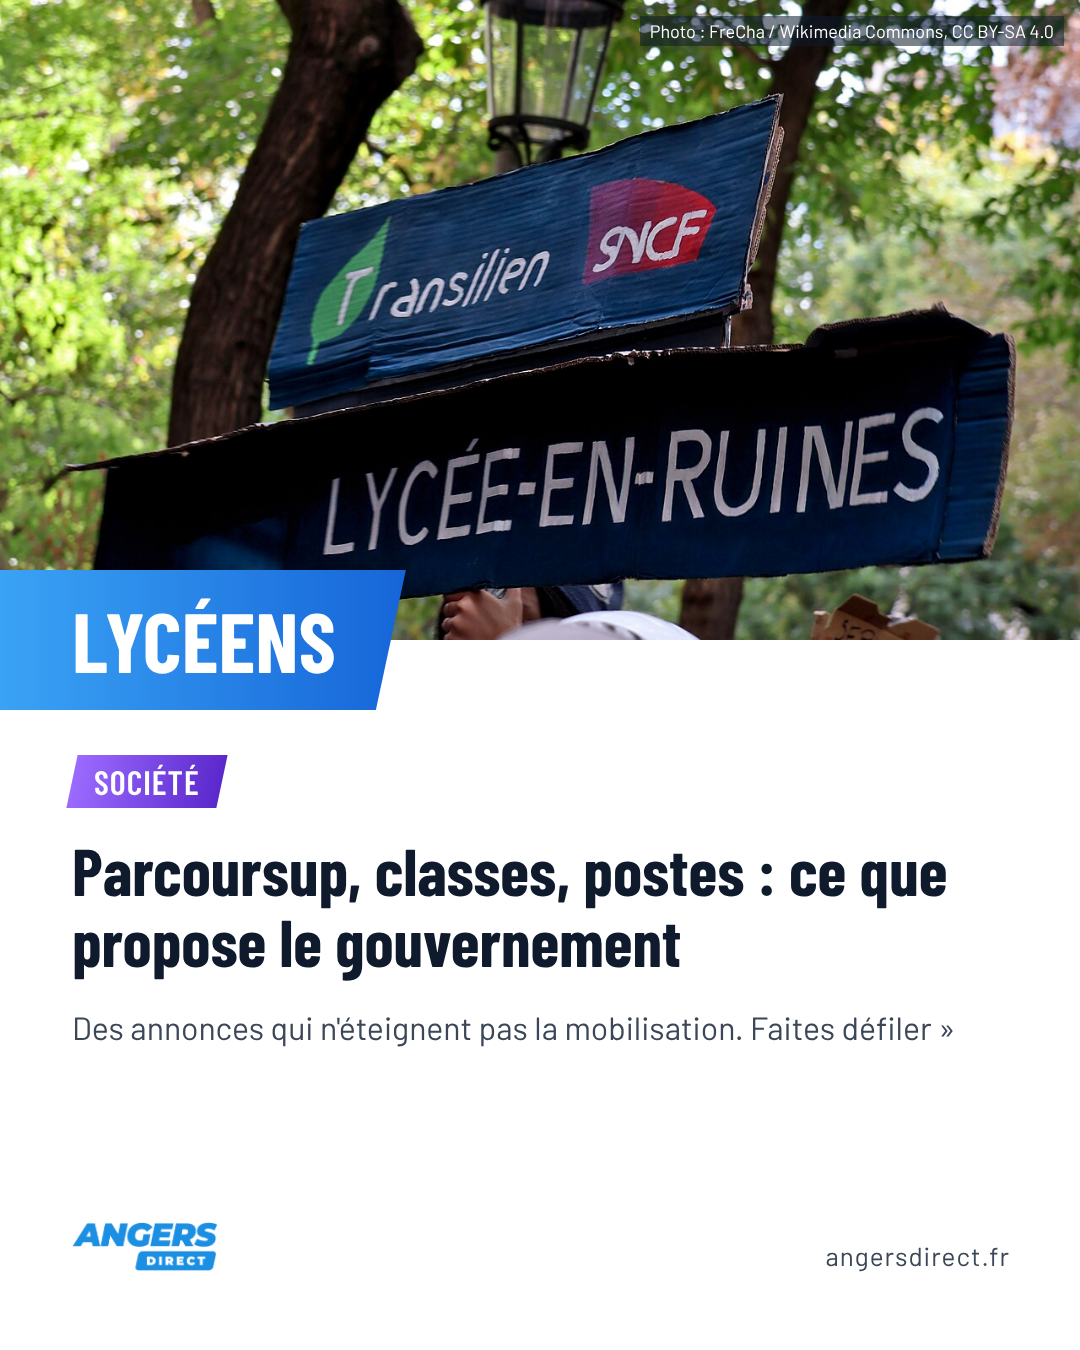
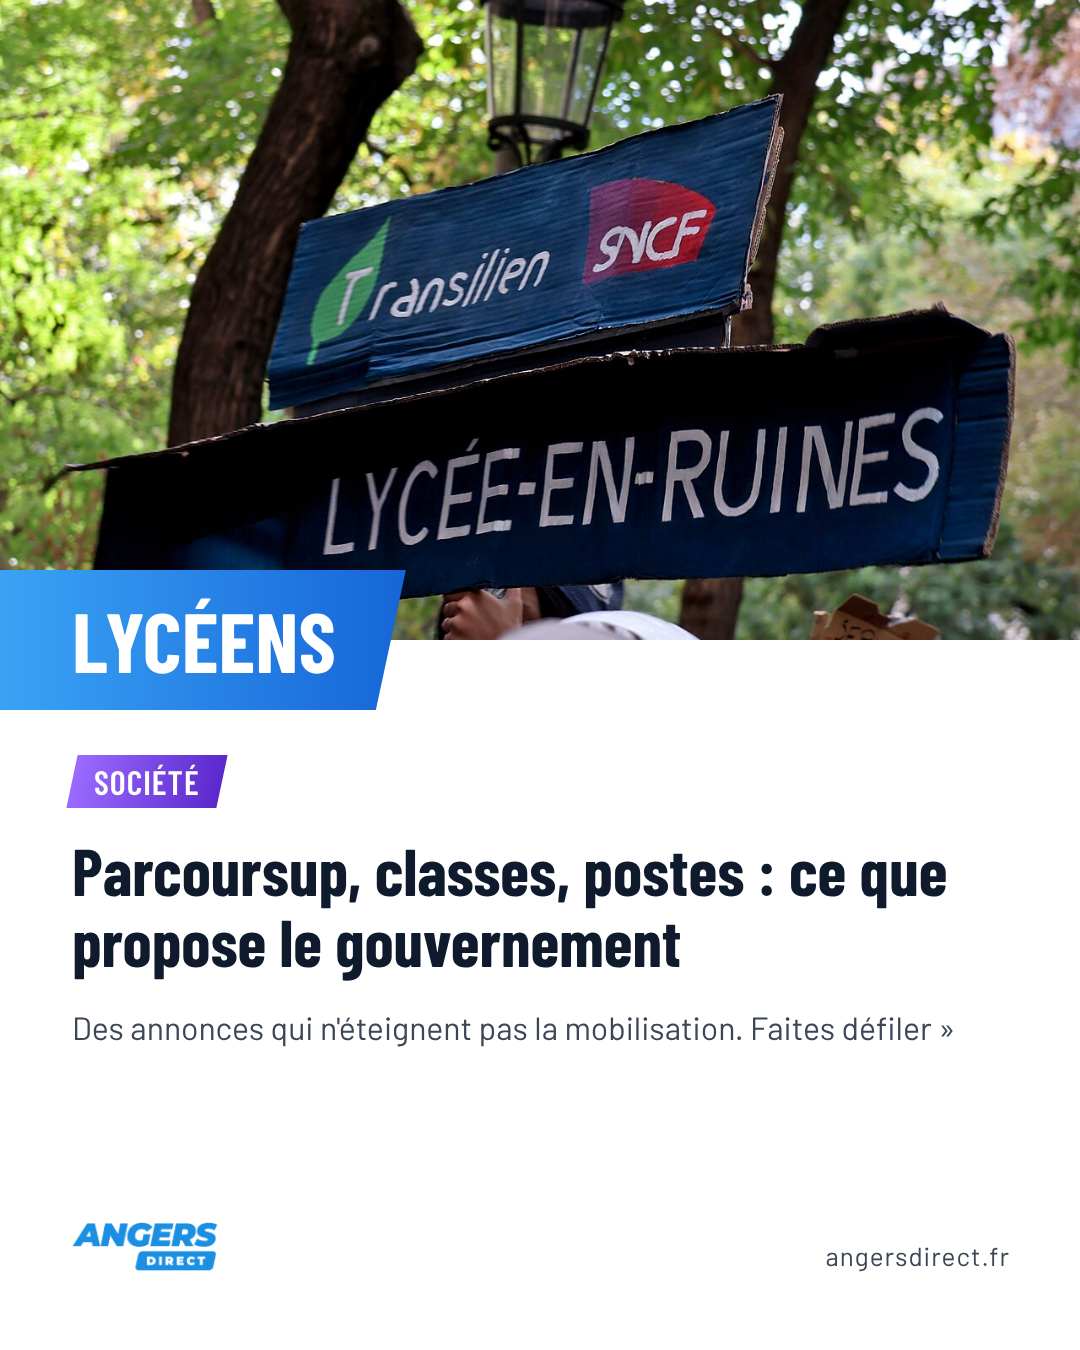
Mobilisation lycéenne : crédit photo retiré des visuels (reporté en légende)
Claude-Session: https://claude.ai/code/session_01Wb1bpkZigxVtCsvkPL2AqY

Changed region(s): [[0.5806, 0.0, 1.0, 0.0311]]

diff --git a/README.md b/README.md
@@ -26,4 +26,4 @@ Les visuels qui intègrent une photo sous licence CC BY-SA sont diffusés sous l
 - terra-botanica-automne (28/10) : Chabe01, CC BY-SA 4.0 (https://commons.wikimedia.org/wiki/File:Terra_Botanica_2017.08.23_Angers_135.jpg)
 - inondasonges (28/10) : Romainberth, CC BY-SA 3.0 (https://commons.wikimedia.org/wiki/File:Lac_de_maine_angers_soleil.jpg)
 - halloween-anjou (29/10) : Smoke It, CC BY-SA 3.0 (https://commons.wikimedia.org/wiki/File:Le_Ch%C3%A2teau_du_Plessis-Bourr%C3%A9.jpg)
-- mobilisation-lyceenne (27/10) : FreCha, CC BY-SA 4.0 (https://commons.wikimedia.org/wiki/File:Manifestation_du_17_octobre_2026_%C3%A0_Paris_35.jpg)
+- mobilisation-lyceenne (27/10) : FreCha, CC BY-SA 4.0 (https://commons.wikimedia.org/wiki/File:Manifestation_du_17_octobre_2026_%C3%A0_Paris_35.jpg). Crédit retiré de l'image à la demande de la rédaction : il figure dans la légende des publications.
